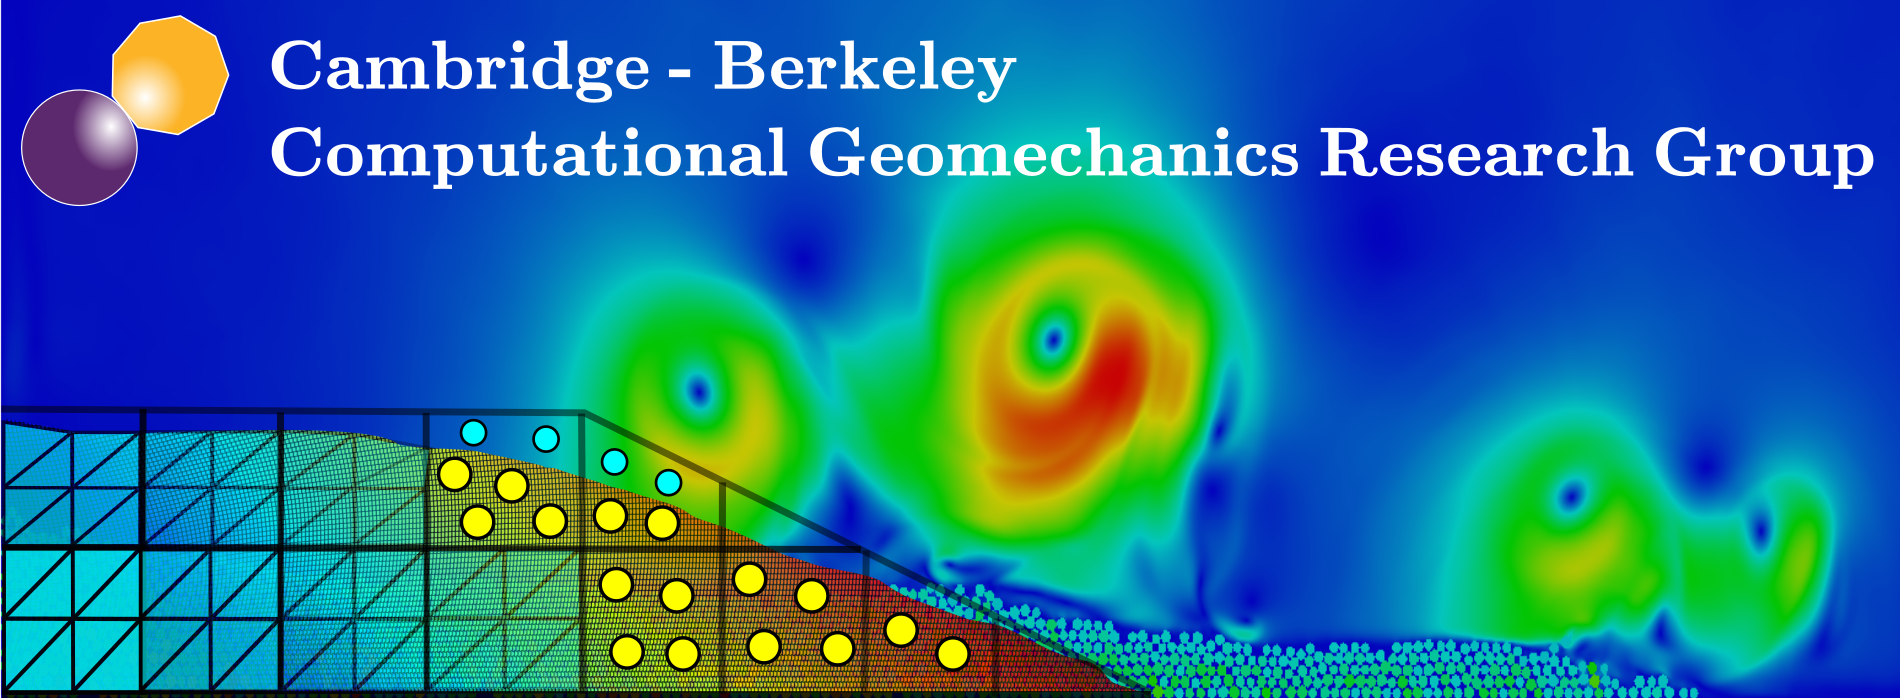
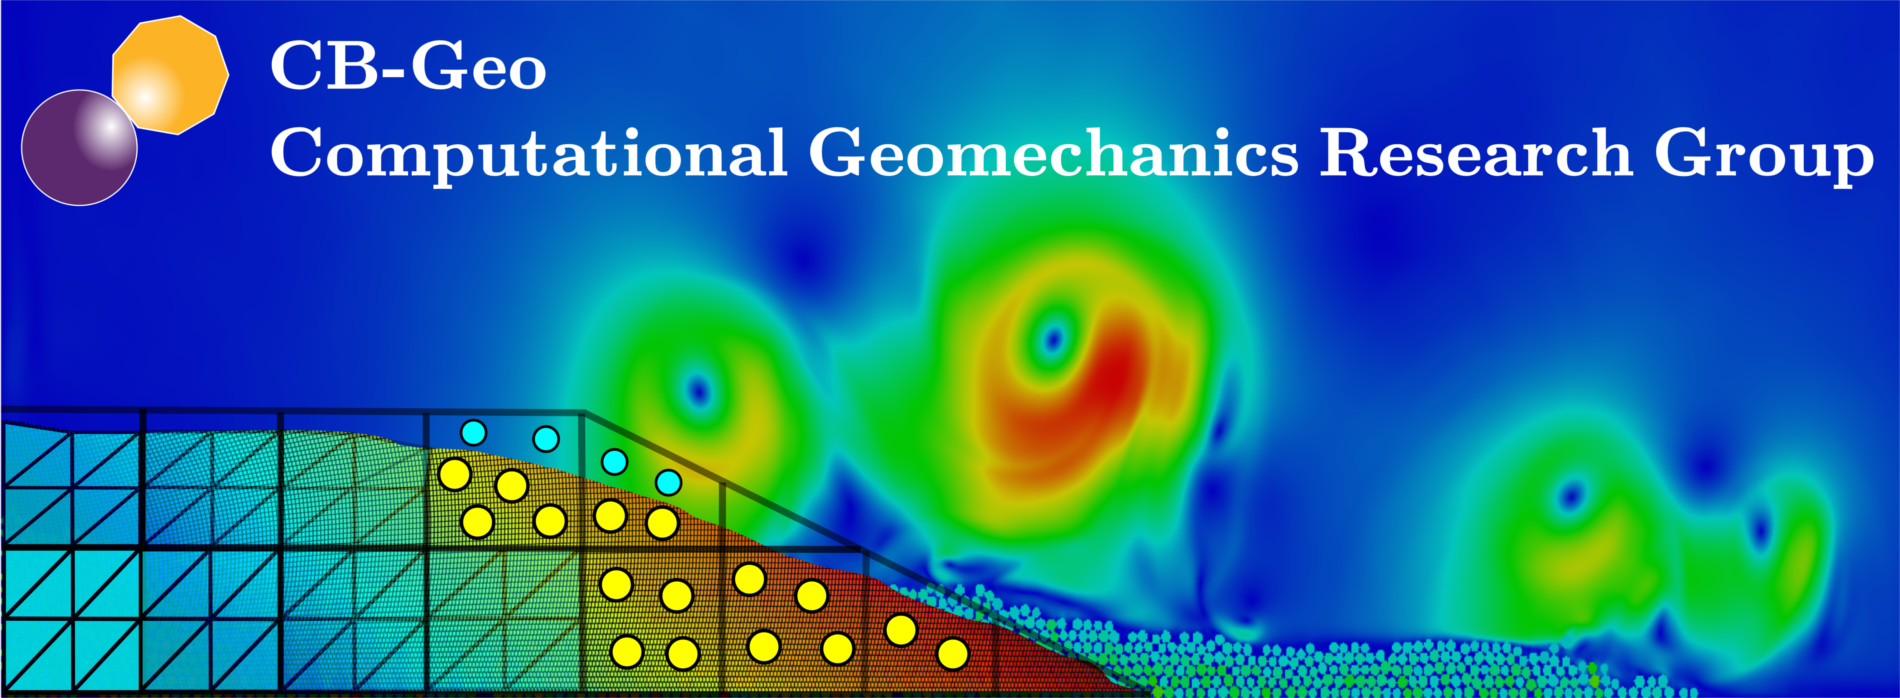
:package: Update name to CB-Geo

diff --git a/index.md b/index.md
@@ -1,7 +1,7 @@
 ---
 layout: page
-#title: Cambridge-Berkeley Geomechanics
-excerpt: "Cambridge-Berkeley Computational Geomechanics Research"
+#title: CB-Geo
+excerpt: "CB-Geo Computational Geomechanics Research"
 image:
   feature: cb-geo/banner.png
 ---
@@ -11,7 +11,7 @@ image:
 
 # Welcome
 
-Welcome to the Cambridge - Berkeley Computational Geomechanics (CB-Geo) group. We develop open source numerical tools and methods to solve complex geomechanics problems. Please see our [research](https://www.cb-geo.com/research) section for more details. We encourage you to make use of our infrastructure and tools, and also contribute towards the development of geomechanics.
+Welcome to the CB-Geo computational geomechanics research group. We develop open source numerical tools and methods to solve complex geomechanics problems. Please see our [research](https://www.cb-geo.com/research) section for more details. We encourage you to make use of our infrastructure and tools, and also contribute towards the development of geomechanics.
 
 # Team
 

diff --git a/_posts/research_areas/2017-04-17-dlm.md b/_posts/research_areas/2017-04-17-dlm.md
@@ -35,7 +35,7 @@ As a discrete model, DLM is suitable to represent heterogeneous material and mod
 
 ### DualLattice3D package
 
-A C++ DualLattice3D code is under development at the Cambridge - Berkeley Computation Geomechanics Research Group. It is a three-dimensional model. It includes 5 main modules:
+A C++ DualLattice3D code is under development at the CB-Geo Computation Geomechanics Research Group. It is a three-dimensional model. It includes 5 main modules:
 
 * Pre-processing module: has the capacity to generate disorder lattice network, applying heterogeneity by including fractures and applying statistical distribution on lattice parameters. 
 * Geometry module: handling , Voronoi cells, dual lattices system and fracture facets
